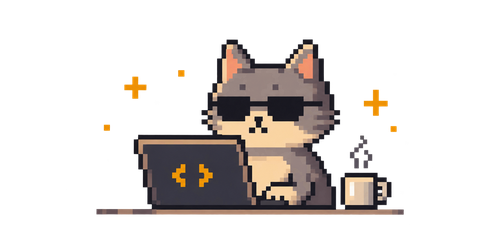
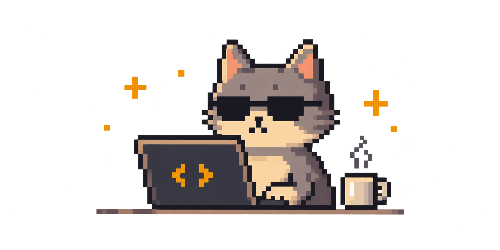
Fix cat animation artifacts and adjust About fact padding

diff --git a/index.html b/index.html
@@ -142,7 +142,7 @@
           <div class="about-illustration" role="button" tabindex="0" aria-label="Talk to the cat" aria-controls="cat-speech">
             <svg class="animated-cat" aria-hidden="true" viewBox="0 0 1774 887" preserveAspectRatio="xMidYMid meet" xmlns="http://www.w3.org/2000/svg">
               <defs>
-                <image id="animated-cat-source" href="assets/about-cat.webp" width="1774" height="887" />
+                <image id="animated-cat-source" href="assets/about-cat.webp" width="1774" height="887" image-rendering="pixelated" />
                 <mask id="animated-cat-base-mask" maskUnits="userSpaceOnUse" x="0" y="0" width="1774" height="887">
                   <rect width="1774" height="887" fill="var(--mask-visible)" />
                   <g fill="var(--mask-hidden)">
@@ -153,7 +153,7 @@
                     <rect x="1370" y="430" width="60" height="50" />
                     <rect x="1230" y="470" width="105" height="140" />
                     <rect x="940" y="645" width="145" height="80" />
-                    <use class="cat-head-cutout" href="#cat-head-shape" />
+                    <path class="cat-head-cutout" d="M700 130H1230V500H870V495H855V478H700Z" />
                   </g>
                 </mask>
                 <clipPath id="cat-star-one"><rect x="350" y="430" width="60" height="50" /></clipPath>
@@ -163,16 +163,17 @@
                 <clipPath id="cat-star-five"><rect x="1370" y="430" width="60" height="50" /></clipPath>
                 <clipPath id="cat-steam-clip"><rect x="1230" y="470" width="105" height="140" /></clipPath>
                 <path id="cat-head-shape" stroke="none" d="M700 130H1230V525H870V495H855V478H700Z" />
-                <path id="cat-glasses-shape" stroke="none" d="M754 342H887V359H949V342H1077V359H1144V377H1077V411H1059V431H968V413H949V395H887V413H870V431H788V411H770V377H737V359H754Z" />
+                <path id="cat-glasses-shape" stroke="none" d="M755.724 340.608H887V358.348H947.316V340.608H1078.592V358.348H1142.456V376.088H1078.592V411.568H1057.304V429.308H968.604V411.568H947.316V393.828H887V411.568H869.26V429.308H787.656V411.568H769.916V376.088H737.984V358.348H755.724Z" />
                 <clipPath id="cat-head-clip"><use href="#cat-head-shape" /></clipPath>
                 <mask id="cat-bare-face-mask" maskUnits="userSpaceOnUse" x="700" y="130" width="530" height="395">
                   <use href="#cat-head-shape" fill="var(--mask-visible)" />
                   <use href="#cat-glasses-shape" fill="var(--mask-hidden)" />
                 </mask>
-                <clipPath id="cat-paw-clip"><rect x="922" y="627" width="182" height="108" /></clipPath>
+                <clipPath id="cat-paw-clip"><rect x="940" y="627" width="164" height="108" /></clipPath>
               </defs>
               <rect x="940" y="645" width="145" height="80" fill="var(--cat-paw-underlay)" />
               <use href="#animated-cat-source" mask="url(#animated-cat-base-mask)" />
+              <!-- The neck overlaps the cutout so head movement cannot reveal a seam. -->
               <g class="cat-finale-head">
                 <use href="#animated-cat-source" clip-path="url(#cat-head-clip)" mask="url(#cat-bare-face-mask)" />
                 <g shape-rendering="crispEdges">
@@ -196,6 +197,7 @@
               <g class="cat-spark cat-spark-four"><use href="#animated-cat-source" clip-path="url(#cat-star-four)" /></g>
               <g class="cat-spark cat-spark-five"><use href="#animated-cat-source" clip-path="url(#cat-star-five)" /></g>
               <g class="cat-steam"><use href="#animated-cat-source" clip-path="url(#cat-steam-clip)" /></g>
+              <!-- Keep the original paw movement, excluding the laptop edge from its clip. -->
               <g clip-path="url(#cat-paw-clip)"><use class="cat-paw" href="#animated-cat-source" /></g>
               <rect class="cat-hit-area" width="1774" height="887" />
             </svg>

diff --git a/styles.css b/styles.css
@@ -1242,7 +1242,7 @@ svg {
   grid-template-columns: 24px minmax(0, 1fr);
   gap: 14px;
   max-width: none;
-  padding: 16px 0;
+  padding: 14px;
   border: 0;
   background: transparent;
   box-shadow: none;
